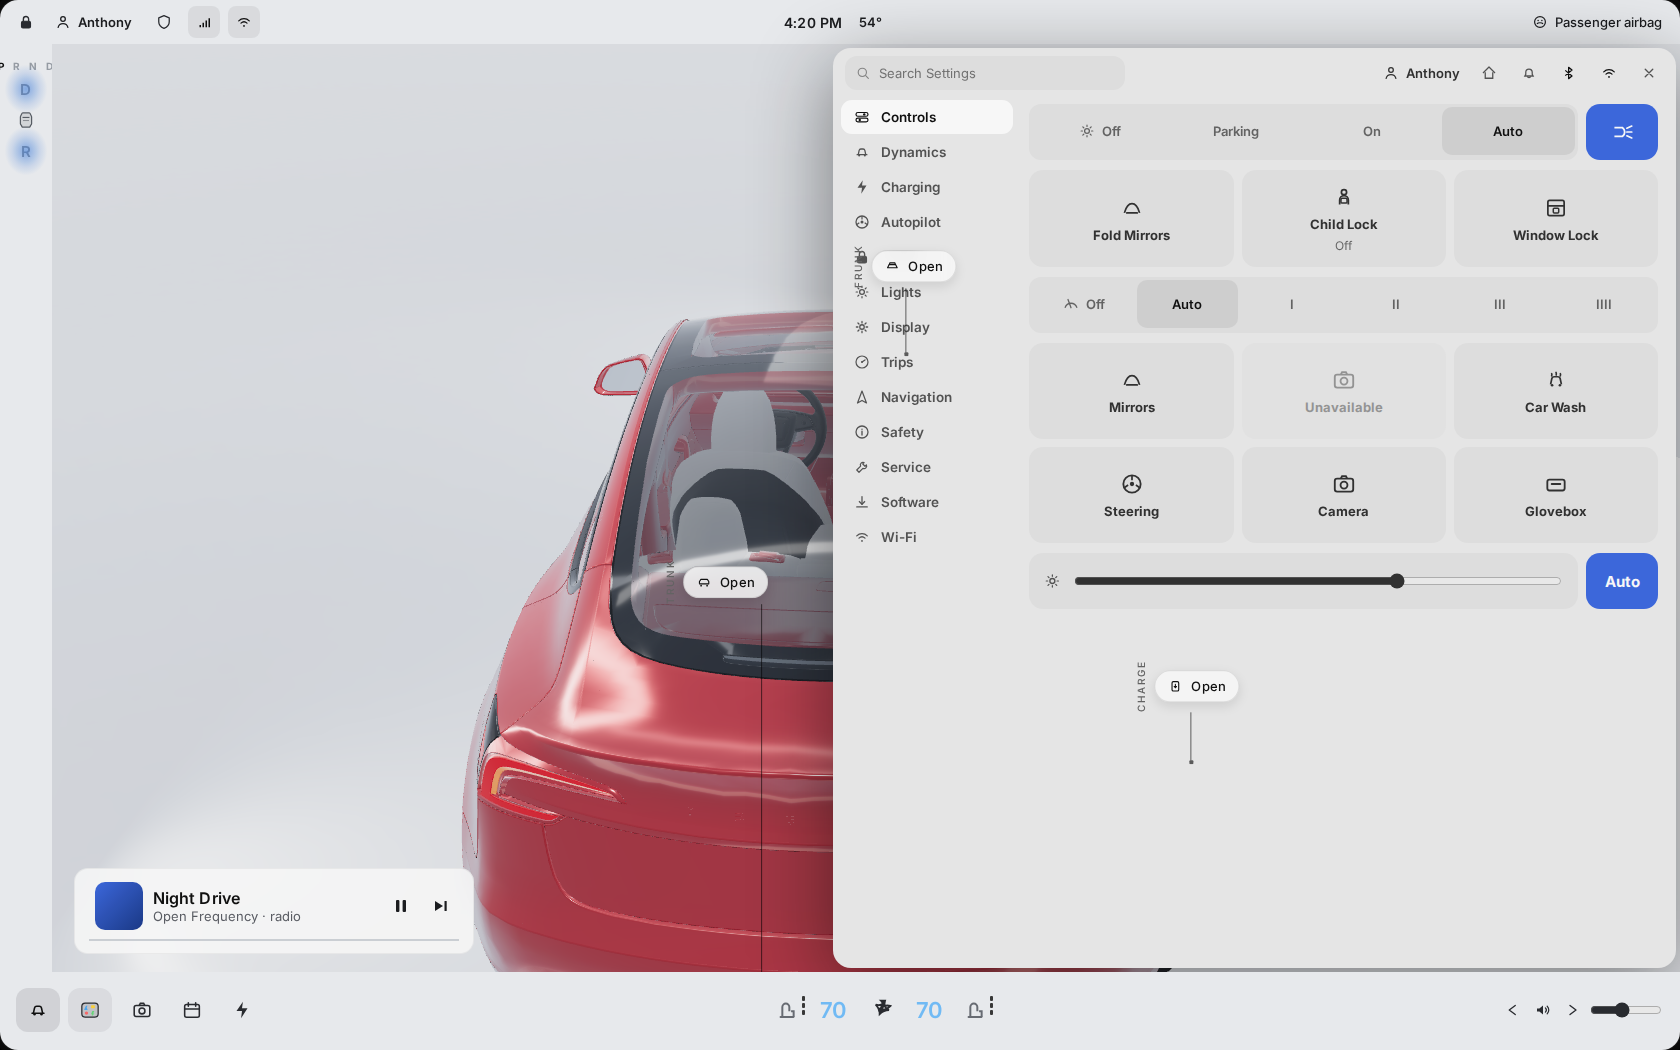
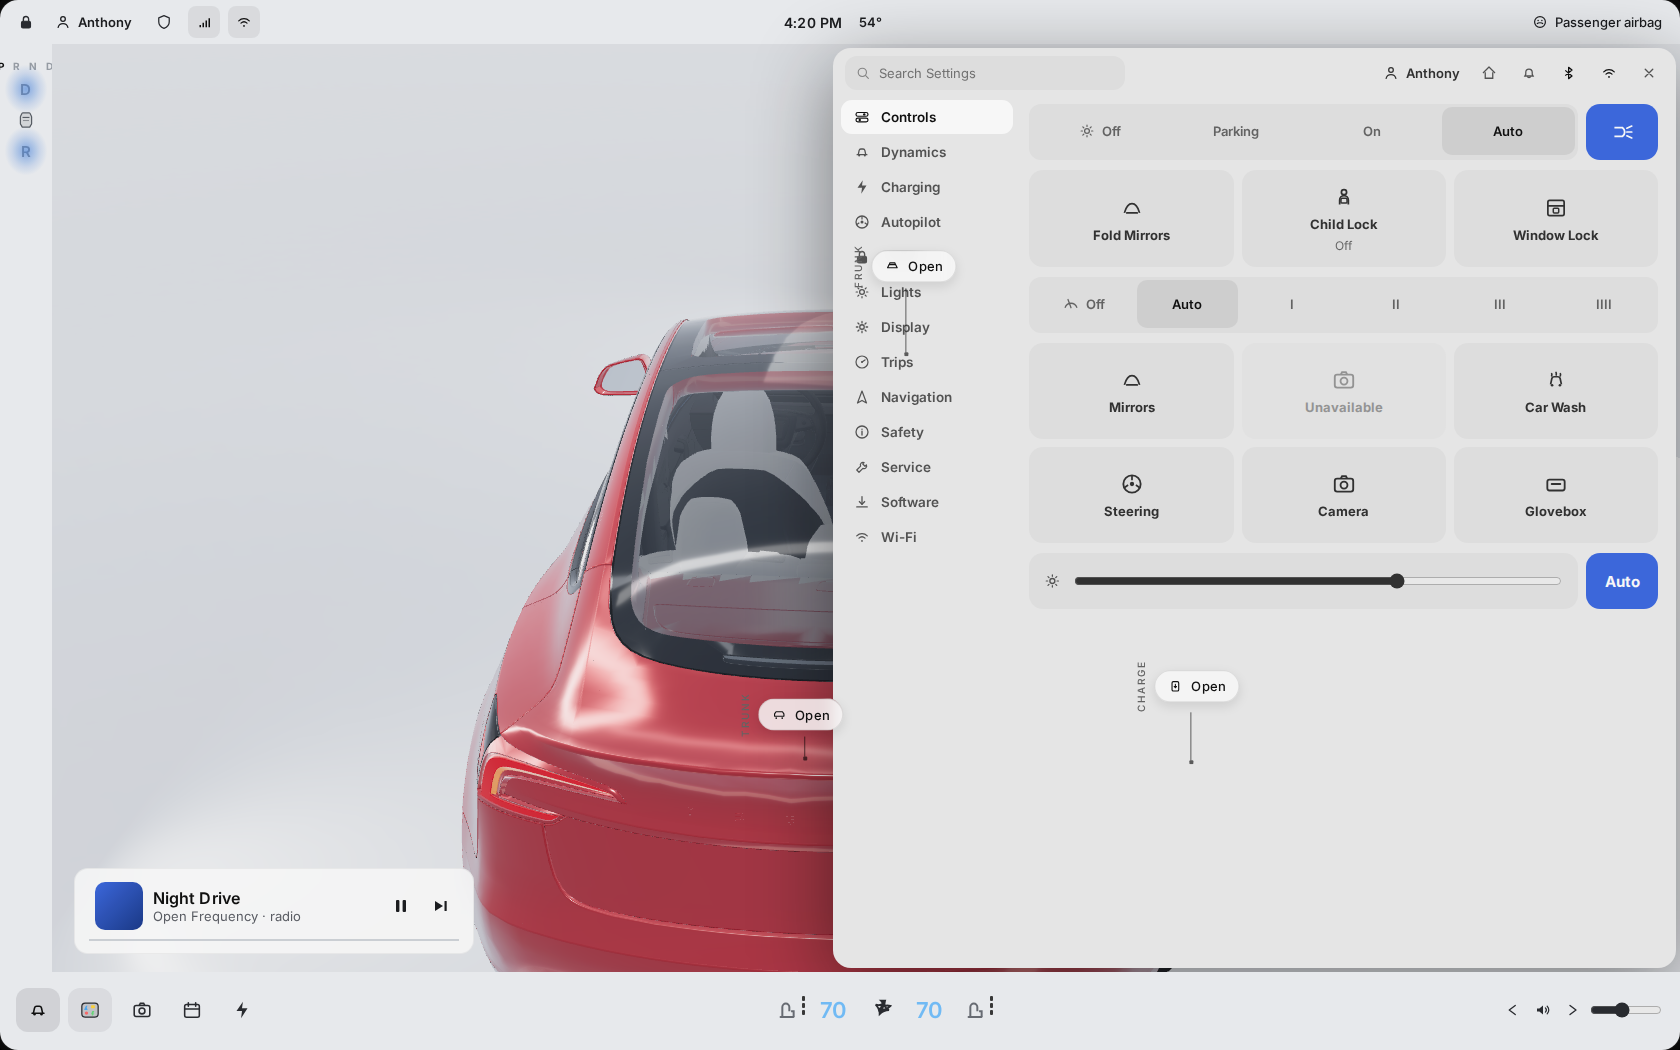
Seat TRUNK on the decklid and stop cabin taking body paint (#14)
* Seat the trunk callout on the decklid and keep cabin surfaces off body paint.

The parked TRUNK leader was anchored at the bumper with a 440px stem, so the card floated above the lid. The pin now sits on the Highland decklid with a short stem. Body color stays on the exterior-paint allowlist; the fused Georim tub and the red cockpit pad use interior carpet, plastic, and pad finishes instead.

* Drop the trunk callout onto the decklid face.

The first pin sat on the glass line at the top of the lid, so the card still hovered over the rear window. A lower deck point and a 20px stem put the Open card on the red lid.

* Refresh parked QA stills for the decklid leader and cabin colors.

Parked-home shows the TRUNK card on the lid. parked-cabin.png is a glasshouse crop of that capture so the interior plastics, carpet, and pads are readable. Checklist and mesh review record the before and after.

---------

Changed region(s): [[0.3714, 0.3657, 0.4952, 0.579], [0.4333, 0.64, 0.4952, 0.701]]

diff --git a/src/viz/highlandRig.ts b/src/viz/highlandRig.ts
@@ -34,6 +34,10 @@ export type HighlandRole =
   | "wheel_finish"
   | "tire_rubber"
   | "interior_leather"
+  | "interior_plastic"
+  | "interior_carpet"
+  | "interior_pad"
+  | "interior_headliner"
   | "glass"
   | "lamp_lens"
   | "headlight_led"
@@ -41,33 +45,87 @@ export type HighlandRole =
   | "trim"
   | "other";
 
-/** Role tags from Tesla Studio `src/studio/vehicles/highland.ts`, plus wheel-well paint. */
-export function highlandRole(name: string, x: number, y: number, z: number): HighlandRole | string {
-  let role: HighlandRole | string = name;
-  if (name === "Geohoodsub00021Mtl" || name === "Georimblurlfsub01Mtl") role = "exterior_paint";
-  if (name === "Georimblurlfsub021Mtl") role = "wheel_finish";
-  if (name === "Ln7Mtl") {
-    if (z < -1.75 && y > 0.45 && y < 0.95) role = "headlight_led";
-    else if (z > -0.6) role = "interior_leather";
+type InteriorFinish = "interior_leather" | "interior_plastic" | "interior_carpet" | "interior_pad" | "interior_headliner";
+
+/**
+ * Body color is an allowlist. `Geohoodsub00021` is the painted outer shell
+ * (hood, doors, quarters, decklid). `Georimblurlfsub01` is a fused shell that
+ * also carries the cabin tub, so only the tub is pulled back off the list.
+ */
+const EXTERIOR_PAINT_MATERIALS: ReadonlySet<string> = new Set([
+  "Geohoodsub00021Mtl",
+  "Georimblurlfsub01Mtl",
+]);
+
+/** Cockpit surfaces that ship with a body-red albedo and must never take paint. */
+const INTERIOR_PAD_MATERIALS: ReadonlySet<string> = new Set(["Geocockpithrsub1031Mtl"]);
+
+const INTERIOR_LEATHER_MATERIALS: ReadonlySet<string> = new Set([
+  "Geodoorl2intsub651Mtl",
+  "Geodoorlintsub400251Mtl",
+]);
+
+/** Dark charcoal soft-trim. Dash, door cards, and console plastics. */
+export const INTERIOR_PLASTIC_HEX = "#1a1c1f";
+/** Matte dark grey carpet and footwells. */
+export const INTERIOR_CARPET_HEX = "#2a2c30";
+/** Light grey wireless-charging pads on the Highland console. */
+export const INTERIOR_PAD_HEX = "#b4b7bb";
+/** Light grey headliner, matching the white seat leather rather than body paint. */
+export const INTERIOR_HEADLINER_HEX = "#d4d1cb";
+
+function isInteriorFinish(role: string): role is InteriorFinish {
+  switch (role) {
+    case "interior_leather":
+    case "interior_plastic":
+    case "interior_carpet":
+    case "interior_pad":
+    case "interior_headliner":
+      return true;
+    default:
+      return false;
   }
-  if (name === "Geodoorl2intsub651Mtl" || name === "Geodoorlintsub400251Mtl") role = "interior_leather";
-  if (
-    /Georimblurlfsub01/.test(name) &&
-    Math.abs(x) < 0.63 &&
-    z > -0.55 &&
-    z < 1.07 &&
-    y > 0.32 &&
-    y < 1.03
-  ) {
-    role = "interior_leather";
+}
+
+/**
+ * Cabin tub inside the fused Georim shell, in Studio space (nose on -Z).
+ * Wheel arches and the painted cowl stay on the exterior-paint path.
+ */
+function georimCabinRole(x: number, y: number, z: number): InteriorFinish | null {
+  const nearWheel =
+    y < 0.65 && Math.abs(x) > 0.7 && Math.min(Math.abs(z + 1.49), Math.abs(z - 1.385)) < 0.4;
+  if (nearWheel) return null;
+  const inTub = Math.abs(x) < 0.78 && y > 0.15 && y < 1.26 && z > -1.26 && z < 1.36;
+  if (!inTub) return null;
+  if (z < -1.02 && y > 0.9) return null;
+  if (y < 0.42) return "interior_carpet";
+  if (y > 1.05) return "interior_headliner";
+  return "interior_plastic";
+}
+
+/** Role tags from Tesla Studio `src/studio/vehicles/highland.ts`, plus cabin allowlists. */
+export function highlandRole(name: string, x: number, y: number, z: number): HighlandRole | string {
+  if (INTERIOR_PAD_MATERIALS.has(name)) return "interior_pad";
+  if (INTERIOR_LEATHER_MATERIALS.has(name)) return "interior_leather";
+  if (name === "Ln7Mtl") {
+    if (z < -1.75 && y > 0.45 && y < 0.95) return "headlight_led";
+    if (z > -0.6) return "interior_leather";
+  }
+  if (name === "Georimblurlfsub021Mtl") return "wheel_finish";
+  if (EXTERIOR_PAINT_MATERIALS.has(name)) {
+    if (name === "Georimblurlfsub01Mtl") {
+      const cabin = georimCabinRole(x, y, z);
+      if (cabin) return cabin;
+    }
+    return "exterior_paint";
   }
   if (/window|extwindow|Geodoorl2sub31|Geodoorr2sub31/i.test(name)) {
-    role = z < -1.7 && y > 0.5 && y < 0.82 ? "lamp_lens" : "glass";
+    return z < -1.7 && y > 0.5 && y < 0.82 ? "lamp_lens" : "glass";
   }
-  if (name === "Ln12Mtl") role = "taillight_led";
-  if (/Tire1/.test(name)) role = "tire_rubber";
-  if (name === "Geohoodsub00031Mtl") role = "trim";
-  return role;
+  if (name === "Ln12Mtl") return "taillight_led";
+  if (/Tire1/.test(name)) return "tire_rubber";
+  if (name === "Geohoodsub00031Mtl") return "trim";
+  return name;
 }
 
 /** Studio-space hub id. `wheel_fl` is front-left while the nose still points -Z. */
@@ -106,15 +164,8 @@ function treatHighland(material: MeshPhysicalMaterial, sourceName: string, role:
     material.roughness = 0.9;
     material.envMapIntensity = 0.22;
   }
-  if (role === "interior_leather") {
-    material.metalness = 0;
-    material.roughness = 0.55;
-    material.sheen = 0.42;
-    material.sheenRoughness = 0.4;
-    material.sheenColor.set("#c8c4bc");
-    material.envMapIntensity = 0.6;
-  }
-  if (role === "glass" || role === "lamp_lens" || material.transparent) {
+  if (isInteriorFinish(role)) finishInterior(material, role);
+  if (!isInteriorFinish(role) && (role === "glass" || role === "lamp_lens" || material.transparent)) {
     material.transparent = true;
     material.roughness = role === "lamp_lens" ? 0.16 : 0.07;
     material.metalness = 0.04;
@@ -277,6 +328,54 @@ export function fitHighland(source: Object3D): Group {
   return fit;
 }
 
+function finishInterior(material: MeshPhysicalMaterial, role: InteriorFinish): void {
+  material.metalness = 0;
+  material.emissive.set("#000000");
+  material.emissiveIntensity = 0;
+  material.transparent = false;
+  material.opacity = 1;
+  switch (role) {
+    case "interior_leather":
+      material.roughness = 0.55;
+      material.sheen = 0.42;
+      material.sheenRoughness = 0.4;
+      material.sheenColor.set("#c8c4bc");
+      material.envMapIntensity = 0.6;
+      break;
+    case "interior_plastic":
+      material.color.set(INTERIOR_PLASTIC_HEX);
+      material.roughness = 0.78;
+      material.sheen = 0;
+      material.envMapIntensity = 0.28;
+      break;
+    case "interior_carpet":
+      material.color.set(INTERIOR_CARPET_HEX);
+      material.roughness = 0.96;
+      material.sheen = 0;
+      material.envMapIntensity = 0.12;
+      break;
+    case "interior_pad":
+      material.color.set(INTERIOR_PAD_HEX);
+      material.roughness = 0.58;
+      material.metalness = 0.02;
+      material.sheen = 0.08;
+      material.sheenRoughness = 0.7;
+      material.sheenColor.set("#eceae6");
+      material.envMapIntensity = 0.35;
+      break;
+    case "interior_headliner":
+      material.color.set(INTERIOR_HEADLINER_HEX);
+      material.roughness = 0.9;
+      material.sheen = 0;
+      material.envMapIntensity = 0.2;
+      break;
+    default: {
+      const _exhaustive: never = role;
+      throw new Error(`Unhandled interior finish: ${String(_exhaustive)}`);
+    }
+  }
+}
+
 /** Ultra Red and lamp levels on the Highland rig. Does not rebuild David_Holiday materials. */
 export function applyHighlandLook(
   materials: ReadonlyMap<string, MeshPhysicalMaterial>,
@@ -285,7 +384,9 @@ export function applyHighlandLook(
   const headlightsOn = options.lit && !options.parked;
   for (const material of materials.values()) {
     const role = material.name;
-    if (role === "exterior_paint") {
+    if (isInteriorFinish(role)) {
+      finishInterior(material, role);
+    } else if (role === "exterior_paint") {
       material.color.set(options.paintHex);
       material.metalness = options.parked ? 0.32 : 0.26;
       material.roughness = options.parked ? 0.16 : 0.24;

diff --git a/src/viz/highlandRig.test.ts b/src/viz/highlandRig.test.ts
@@ -1,4 +1,4 @@
-import { Box3, BufferAttribute, BufferGeometry, Group, Mesh, MeshStandardMaterial, Vector3 } from "three";
+import { Box3, BufferAttribute, BufferGeometry, Group, Mesh, MeshPhysicalMaterial, MeshStandardMaterial, Vector3 } from "three";
 import { describe, expect, it } from "vitest";
 import { PAINT_NATA_RED } from "./carMaterials";
 import {
@@ -8,6 +8,9 @@ import {
   highlandRole,
   highlandWheelPart,
   HIGHLAND_LENGTH_M,
+  INTERIOR_CARPET_HEX,
+  INTERIOR_PAD_HEX,
+  INTERIOR_PLASTIC_HEX,
 } from "./highlandRig";
 
 function triangle(name: string, origin: [number, number, number]): Mesh {
@@ -33,6 +36,17 @@ describe("highlandRole", () => {
     expect(highlandRole("Ln7Mtl", 0, 0.7, -1.9)).toBe("headlight_led");
     expect(highlandRole("Ln7Mtl", 0, 0.8, 0.4)).toBe("interior_leather");
     expect(highlandRole("Geohoodsub00031Mtl", 0, 0.9, 1)).toBe("trim");
+  });
+
+  it("keeps body paint on the outer shell and interior colors off that allowlist", () => {
+    expect(highlandRole("Geohoodsub00021Mtl", 0.2, 0.3, 0.2)).toBe("exterior_paint");
+    expect(highlandRole("Georimblurlfsub01Mtl", 0, 0.73, -1.78)).toBe("exterior_paint");
+    expect(highlandRole("Georimblurlfsub01Mtl", 0.9, 0.34, 1.385)).toBe("exterior_paint");
+    expect(highlandRole("Georimblurlfsub01Mtl", 0.15, 0.28, 0.2)).toBe("interior_carpet");
+    expect(highlandRole("Georimblurlfsub01Mtl", 0.1, 0.72, -0.8)).toBe("interior_plastic");
+    expect(highlandRole("Georimblurlfsub01Mtl", 0.05, 1.14, 0.2)).toBe("interior_headliner");
+    expect(highlandRole("Geocockpithrsub1031Mtl", 0, 0.48, 0.4)).toBe("interior_pad");
+    expect(highlandRole("Geoextwindow0021Mtl", 0, 1.1, 0.2)).toBe("glass");
   });
 });
 
@@ -74,5 +88,31 @@ describe("fitHighland", () => {
     const paint = [...materials!.values()].find((m) => m.name === "exterior_paint");
     expect(paint?.color.getHexString()).toBe(PAINT_NATA_RED.slice(1));
     expect(paint?.clearcoat).toBe(1);
+  });
+});
+
+describe("applyHighlandLook interior", () => {
+  it("does not tint cabin roles with exterior paint", () => {
+    const paint = new MeshPhysicalMaterial({ name: "exterior_paint", color: "#111111" });
+    const pad = new MeshPhysicalMaterial({ name: "interior_pad", color: PAINT_NATA_RED });
+    const carpet = new MeshPhysicalMaterial({ name: "interior_carpet", color: PAINT_NATA_RED });
+    const plastic = new MeshPhysicalMaterial({ name: "interior_plastic", color: PAINT_NATA_RED });
+    const glass = new MeshPhysicalMaterial({ name: "glass", color: "#ffffff" });
+    const wheel = new MeshPhysicalMaterial({ name: "wheel_finish", color: "#2a2e34" });
+    const materials = new Map([
+      ["paint", paint],
+      ["pad", pad],
+      ["carpet", carpet],
+      ["plastic", plastic],
+      ["glass", glass],
+      ["wheel", wheel],
+    ]);
+    applyHighlandLook(materials, { paintHex: PAINT_NATA_RED, lit: false, parked: true });
+    expect(paint.color.getHexString()).toBe(PAINT_NATA_RED.slice(1));
+    expect(pad.color.getHexString()).toBe(INTERIOR_PAD_HEX.slice(1));
+    expect(carpet.color.getHexString()).toBe(INTERIOR_CARPET_HEX.slice(1));
+    expect(plastic.color.getHexString()).toBe(INTERIOR_PLASTIC_HEX.slice(1));
+    expect(glass.color.getHexString()).not.toBe(PAINT_NATA_RED.slice(1));
+    expect(wheel.color.getHexString()).toBe("2a2e34");
   });
 });

diff --git a/src/viz/hotspots.ts b/src/viz/hotspots.ts
@@ -11,17 +11,16 @@ export type HotspotPin = {
 };
 
 /**
- * Nata pins: FRUNK on hood center, TRUNK on decklid/liftgate center (not the
- * quarter panel), CHARGE on the driver-side charge-port door.
+ * Nata pins: FRUNK on hood center, TRUNK on the decklid (the dot is the
+ * leader anchor; a short stem keeps the card on the lid), CHARGE on the
+ * driver-side charge-port door.
+ *
+ * App space after `fitHighland`: nose +Z, tail -Z. The Highland decklid
+ * centroid is about y=1.01, z=-1.89.
  */
 export const HOTSPOT_PINS: readonly HotspotPin[] = [
   { id: "frunk", kicker: "FRUNK", position: [0, 0.78, 1.52], hit: [1.48, 0.18, 0.88] },
-  /**
-   * Trunk pin sits low near the rear bumper face.  The 3D projection lands
-   * near the bottom of the bezel in screen space; the tall CSS stem then
-   * carries the card up into empty studio above the roofline.
-   */
-  { id: "trunk", kicker: "TRUNK", position: [0.12, 0.08, -2.0], hit: [1.22, 0.14, 0.52] },
+  { id: "trunk", kicker: "TRUNK", position: [0, 0.91, -2.02], hit: [1.2, 0.18, 0.62] },
   { id: "charge", kicker: "CHARGE", position: [-0.93, 0.7, -1.58], hit: [0.16, 0.26, 0.28] },
 ];
 

diff --git a/src/viz/hotspots.test.ts b/src/viz/hotspots.test.ts
@@ -7,12 +7,13 @@ describe("HOTSPOT_PINS", () => {
     expect(hotspotPin("charge").position[0]).toBeLessThan(-0.8);
   });
 
-  it("puts TRUNK on the rear face of the car, not the quarter panel", () => {
-    const [, y, z] = hotspotPin("trunk").position;
-    expect(z).toBeGreaterThan(-2.2);
-    expect(z).toBeLessThan(-1.55);
-    expect(y).toBeGreaterThan(0.0);
-    expect(y).toBeLessThan(1.1);
+  it("puts TRUNK on the rear decklid, not the bumper or the quarter panel", () => {
+    const [x, y, z] = hotspotPin("trunk").position;
+    expect(Math.abs(x)).toBeLessThan(0.15);
+    expect(z).toBeGreaterThan(-2.15);
+    expect(z).toBeLessThan(-1.85);
+    expect(y).toBeGreaterThan(0.82);
+    expect(y).toBeLessThan(1.02);
   });
 
   it("puts FRUNK on the hood rather than the roof", () => {

diff --git a/src/styles/app.css b/src/styles/app.css
@@ -2628,8 +2628,8 @@ button {
 }
 
 .parked-callout.trunk {
-  --stem-h: min(50vh, 440px);
-  --pin-x: 96px;
+  --stem-h: 20px;
+  --pin-x: 64px;
 }
 
 .parked-callout.frunk {

diff --git a/docs/qa/CHECKLIST.md b/docs/qa/CHECKLIST.md
@@ -19,7 +19,7 @@ Baseline captured from this harness on 2026-09-16 (`docs/qa/screenshots/*.png`).
 
 | Scene | Latest still | vs reference | Status | Notes (update me) |
 | --- | --- | --- | --- | --- |
-| Parked home | `screenshots/parked-home.png` | `manual-m3-touchscreen-p8.jpg`, `nata-parked-car-vis.jpg`, `nata-status-bar.jpg` | PARTIAL | 2026-09-25 Highland import. Proportions PASS vs nata. Ultra Red, dark glass, and source wheels are in frame. Paint, glass, wheels, lighting, and leaders stay PARTIAL. Status order unchanged. See `MESH_REVIEW.md`. |
+| Parked home | `screenshots/parked-home.png` | `manual-m3-touchscreen-p8.jpg`, `nata-parked-car-vis.jpg`, `nata-status-bar.jpg` | PARTIAL | 2026-09-25. TRUNK card sits on the decklid (`parked-cabin.png` is the glasshouse crop). Cabin pads, dash, and floors use interior colors; Ultra Red stays on the outer shell. Paint, glass, wheels, lighting, and leaders stay PARTIAL. See `MESH_REVIEW.md`. |
 | Route set | `screenshots/route-set.png` | `manual-m3-maps-nav-p170.jpg`, `nata-trip-progress.jpg` | PARTIAL | Turn list + Start FSD sit on the parked fullscreen (map snippet TR). Trip progress track is on the card; at the origin it is empty because nothing has been driven. Gray traveled path appears once the car moves (see FSD still). No traffic coloring, no energy-to-destination. |
 | FSD engaged | `screenshots/fsd-engaged.png` | `nata-ui-v12-hero.jpg`, `nata-intel-spring-update.jpg`, `nata-regen-speedometer.jpg` (`manual-m3-driving-status-p16.jpg` is Car Status p.14, not a driving viz) | PARTIAL | Low rear chase. Speed reads the number plus **mph** (not a mode name), hairline power bar on the left. Media card: title left, art right, `m:ss` and `−m:ss` on the scrubber. Gray street, blue lane, charcoal map with streets. Car mesh is the Studio Highland import. |
 | Controls open | `screenshots/controls.png` | `nata-quick-controls.jpg`, `nata-controls-search.jpg` | PARTIAL | Search Settings at top. Left rail: Controls / Dynamics / Charging / Autopilot / Locks / Lights / Display / Trips / Navigation / Safety / Service / Software / Wi-Fi. Quick Controls: lights Off–Auto + Auto High Beam, Fold Mirrors / Child Lock / Window Lock, wipers Off–IIII, Mirrors / Unavailable / Car Wash, Steering / Camera / Glovebox, brightness + Auto. Overlay sits on the **map** (viz stays). Remaining: not pixel-identical icons/type. |
@@ -40,7 +40,7 @@ Baseline captured from this harness on 2026-09-16 (`docs/qa/screenshots/*.png`).
 | Larger speed readout | `nata-regen-speedometer.jpg`, driving-status PDF | PARTIAL | ~128px tabular speed on the viz, with limit sign and blue set-speed above the road. Still Inter Tight, not Tesla’s type. |
 | Map orientation + tracking chip | Maps PDF p.169 | PARTIAL | Compass toggle exists; no “Tracking Disabled” chip. |
 | FSD viz ↔ map polyline | Tone + `nata-ui-v12-hero.jpg` (split viz/map); canned line stands in for OSRM | PASS | Marker on the route, heading-up so ahead is up; viz ribbon shares `interpolate()` at 32% of Pittsburgh→CMU. Driven portion of the map line is gray. Unit tests lock the frozen pose. |
-| Parked full-screen vehicle | UI v12 notes + `nata-parked-car-vis.jpg` | PARTIAL | Scene `parked-home` loads the Studio Highland mesh in Ultra Red. Silhouette, lamps, glass, and wheels are the Highland asset. Leader layout is still PARTIAL. See `LICENSE-3D.md` + `MESH_REVIEW.md`. |
+| Parked full-screen vehicle | UI v12 notes + `nata-parked-car-vis.jpg` | PARTIAL | Scene `parked-home` loads the Studio Highland mesh. Outer panels are Ultra Red; the cabin tub is interior plastic, carpet, and pad colors. TRUNK leader sits on the decklid. See `LICENSE-3D.md` + `MESH_REVIEW.md`. |
 | Controls overlay on **map only** | Touchscreen PDF + `nata-quick-controls.jpg` | PARTIAL | Sheet covers the map pane; viz and dock stay. Not a pixel match of the light Intel still. |
 
 ## How to record a pass

diff --git a/docs/qa/MESH_REVIEW.md b/docs/qa/MESH_REVIEW.md
@@ -405,3 +405,20 @@ Not applied to this mesh: David_Holiday aero-wheel replacement, cabin blocker, g
 | Leaders | PARTIAL | FRUNK and CHARGE sit on the body. TRUNK still rides high and grazes the roofline. |
 
 FSD uses the same fit. The chase camera sits behind a forward nose, and the Highland tail lamps are visible. Remaining gaps are finish (aero-cover brightness, glass darkness, leader layout), not a missing body.
+
+## Trunk leader and cabin colors — 2026-09-25
+
+Stills: `docs/qa/screenshots/parked-home.png` (callouts) and `docs/qa/screenshots/parked-cabin.png` (glasshouse crop of that capture). Compared with `docs/references/nata-parked-car-vis.jpg`.
+
+Before this pass the TRUNK pin sat on the rear bumper (`[0.12, 0.08, -2.0]`) and `.parked-callout.trunk` used a `min(50vh, 440px)` stem, so the Open card floated above the decklid. `highlandRole` tagged the whole fused `Georimblurlfsub01` shell as `exterior_paint`, and `Geocockpithrsub1031` shipped with a body-red albedo, so the dash, door cards, floors, footwells, and wireless pads rendered Ultra Red. Seats (`Ln7`) were already interior leather.
+
+After: the TRUNK dot is on the decklid (`[0, 0.91, -2.02]`) with a 20px stem, so the card sits on the lid the way FRUNK sits on the hood. FRUNK and CHARGE pins are unchanged. Body paint is an allowlist (`Geohoodsub00021`, plus Georim triangles outside the cabin tub, wheel arches, and the painted cowl). Inside the tub, Georim splits into charcoal soft-trim, dark grey carpet, and a light grey headliner. The named cockpit pad is light grey. Glass and wheel finishes are not retinted.
+
+| Axis | Score | Notes |
+| --- | --- | --- |
+| Paint | PARTIAL | Ultra Red clearcoat stays on the outer shell. Cabin tub is no longer body color: dark plastics, dark carpet, light grey pads. Midtones are still flatter than nata. |
+| Glass | PARTIAL | Unchanged laminate. The corrected cabin reads through the rear glass and roof. |
+| Wheels | PARTIAL | Unchanged source wheels. Wheel arches stay on the wheel-finish path. |
+| Proportions | PASS | Unchanged Highland silhouette. |
+| Lighting | PARTIAL | Same white studio. |
+| Leaders | PARTIAL | TRUNK card sits on the decklid. FRUNK stays on the hood and CHARGE on the quarter. Not a nata-length stem into empty studio. |

diff --git a/docs/qa/screenshots/README.md b/docs/qa/screenshots/README.md
@@ -1,4 +1,4 @@
 # Generated by `npm run qa:screenshots`. Commit updates with checklist changes.
 
-Re-baselined 2026-09-25 after parked and FSD views switched to the Tesla Studio Highland Model 3 (`public/models/highland/model.glb`). Parked-home is scored in `docs/qa/MESH_REVIEW.md` against `nata-parked-car-vis.jpg`. Proportions PASS. Paint, glass, wheels, lighting, and leaders stay PARTIAL. FSD viz to map polyline stays PASS.
+Re-baselined 2026-09-25 after the Highland mesh import, then again the same day for the decklid TRUNK leader and interior materials. `parked-home.png` is the full parked capture. `parked-cabin.png` is a glasshouse crop of that capture so the cabin colors are readable. Parked-home is scored in `docs/qa/MESH_REVIEW.md` against `nata-parked-car-vis.jpg`. Proportions PASS. Paint, glass, wheels, lighting, and leaders stay PARTIAL. FSD viz to map polyline stays PASS.
 
